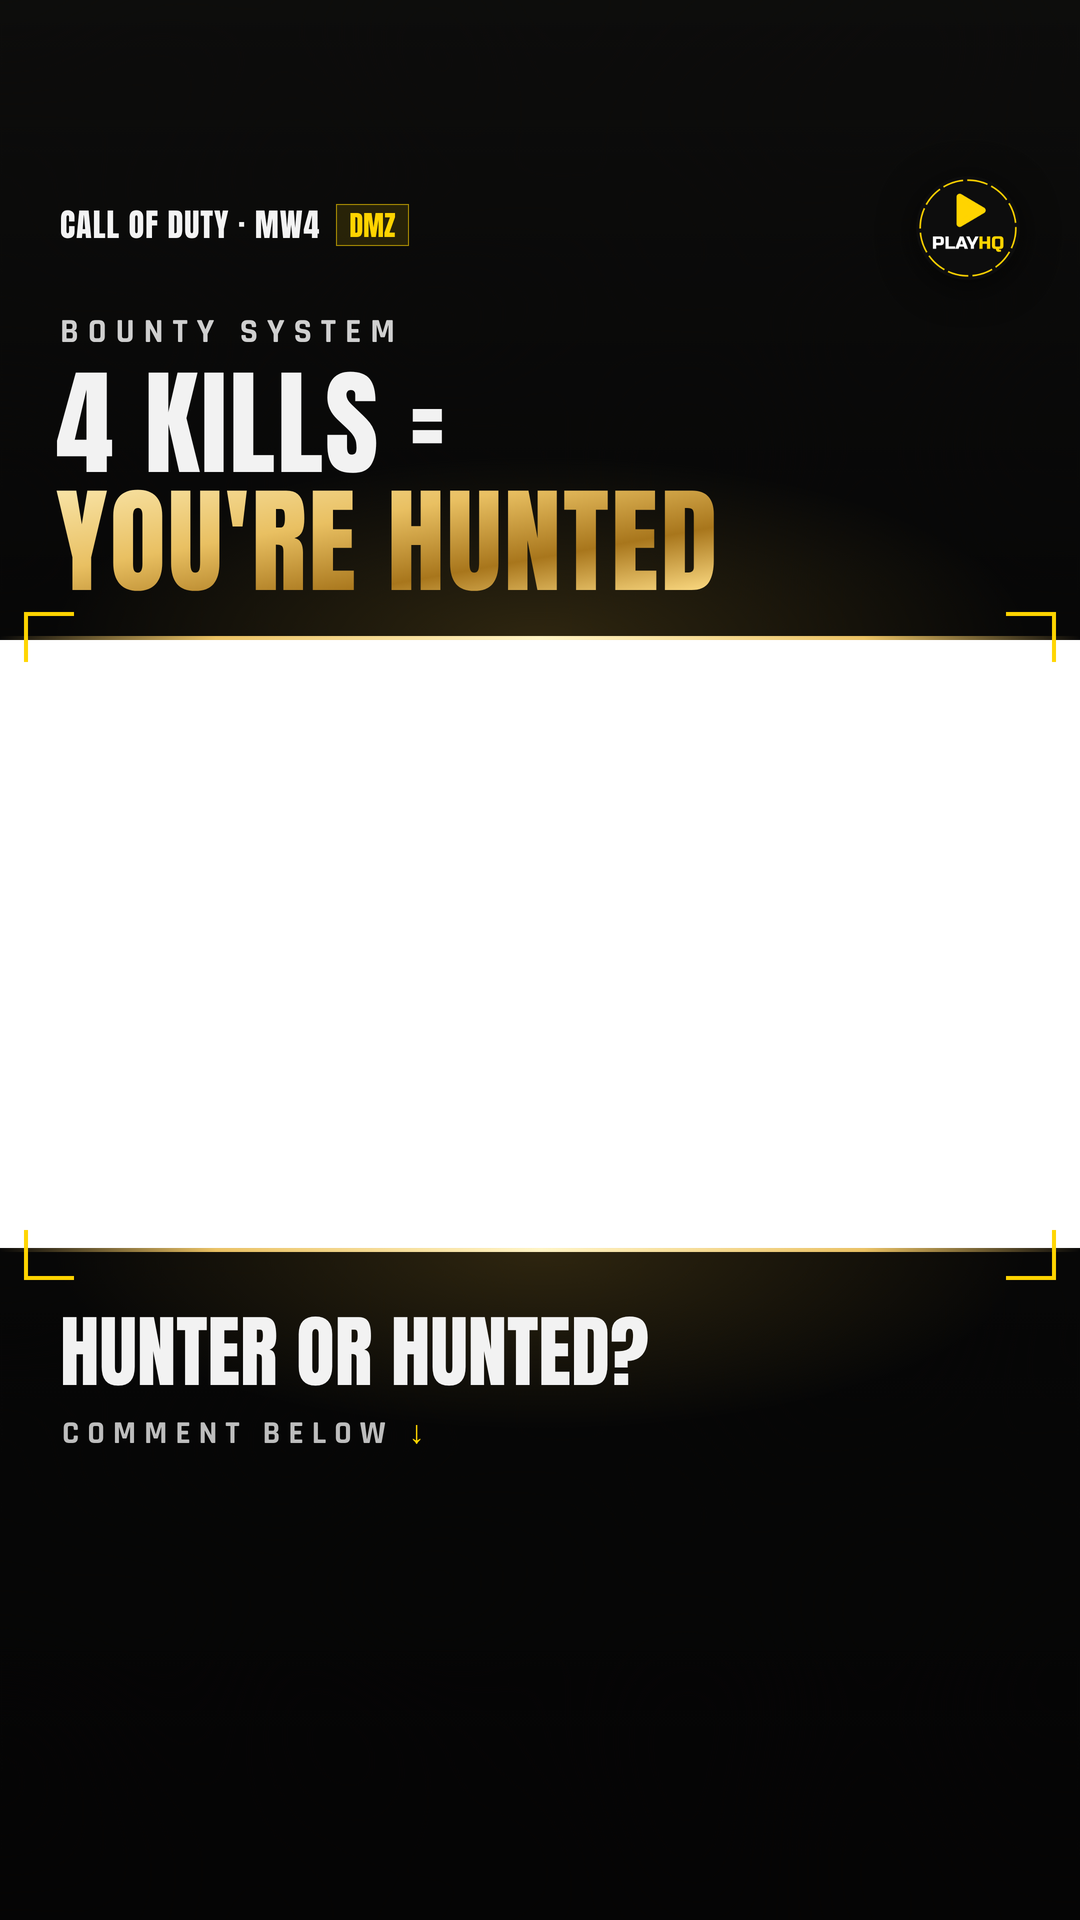
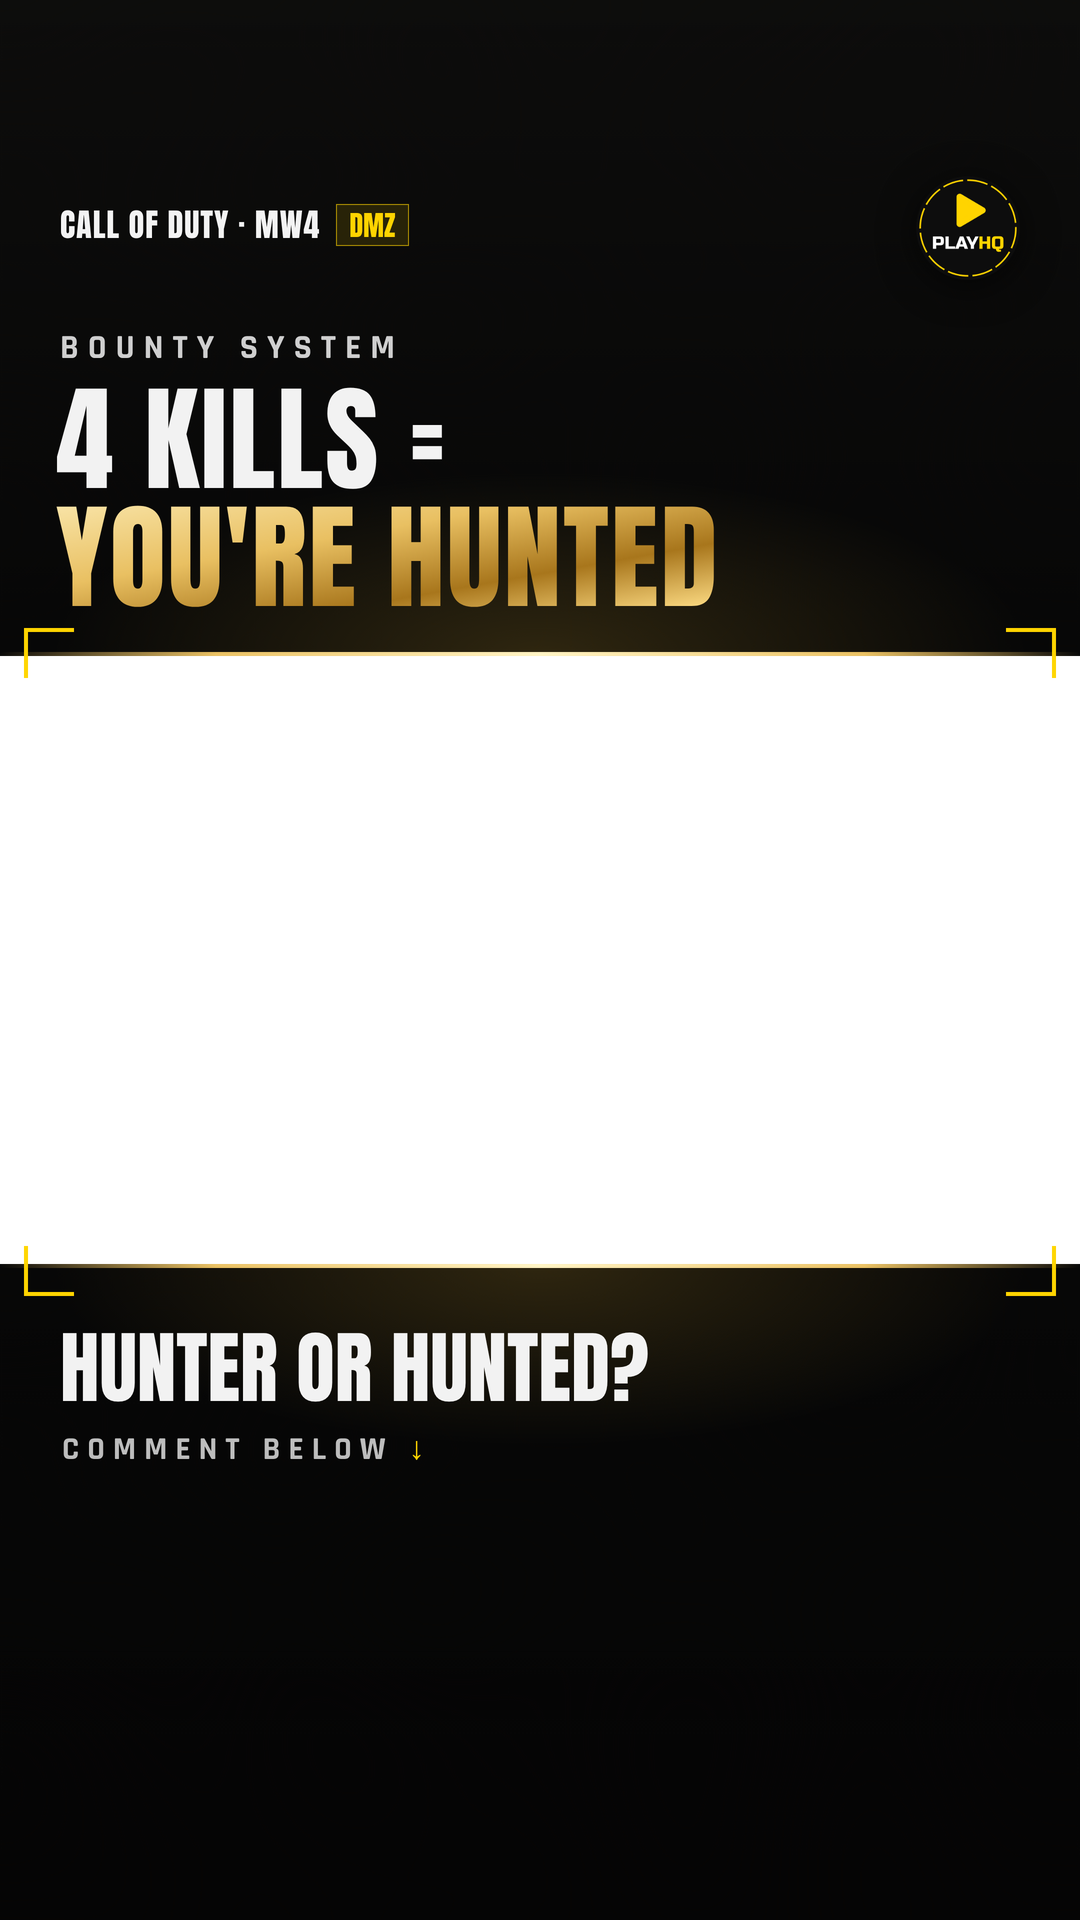
video-frame: center window (top 656)
Claude-Session: https://claude.ai/code/session_01LXyKCaXtAVVtiefghrjJL7

Changed region(s): [[0.0, 0.625, 1.0, 0.7812], [0.0, 0.1562, 1.0, 0.3438]]

diff --git a/templates/video-frame/frame.py b/templates/video-frame/frame.py
@@ -9,7 +9,7 @@ Job JSON: {"hook_white": "4 KILLS =", "hook_gold": "YOU'RE HUNTED",
            "kicker": "MW4 DMZ · BOUNTY SYSTEM", "question": "HUNTER OR HUNTED?",
            "sub": "COMMENT BELOW", "video_top": 640}
 Cloudinary composite: video c_scale,w_1080 -> c_pad,w_1080,h_1920,b_rgb:070707,g_north,y_<video_top>
-then l_<frame png>,fl_layer_apply,g_north.
+then l_<frame png>,fl_layer_apply,g_north. Simplest: c_pad,w_1080,h_1920,g_center (video_top 656 for 16:9).
 """
 import json, os, sys, html, threading, functools, http.server, socketserver
 from playwright.sync_api import sync_playwright
